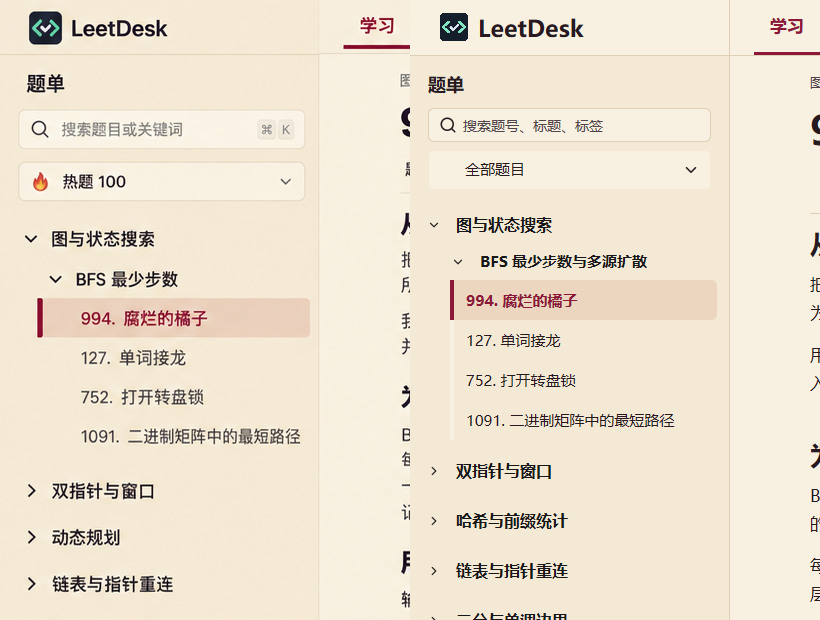
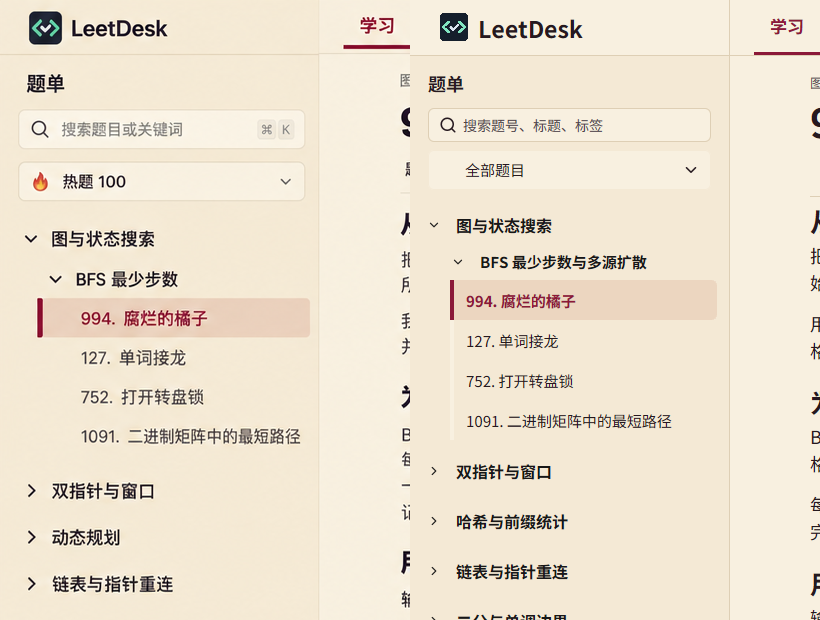
add the ux/ui revise

diff --git a/src/desktop.rs b/src/desktop.rs
@@ -2613,9 +2613,15 @@ impl Workspace {
             let (_, state, origin) = self.document_view.as_ref().unwrap();
             let origin = origin.clone();
             let image_origin = origin.clone();
-            content = content.pt_3().child(
+            content = content.child(
                 TextView::new(state)
                     .scrollable(true)
+                    .font_family(gpui_kit::component::Theme::global(cx).font_family.clone())
+                    .line_height(px(if self.workspace_mode == WorkspaceMode::Study {
+                        27.
+                    } else {
+                        23.
+                    }))
                     .code_block_actions(|block, _, cx| {
                         let code = block.code();
                         Button::new("copy-lesson-code")
@@ -2649,7 +2655,7 @@ impl Workspace {
                     .style(document_style(cx))
                     .size_full()
                     .text_size(px(if self.workspace_mode == WorkspaceMode::Study {
-                        17.
+                        18.
                     } else {
                         15.
                     })),
@@ -3687,7 +3693,7 @@ fn launch_options(store: Store, smoke: bool, capture: Option<(PathBuf, f32, f32)
                     cx.background_executor()
                         .timer(Duration::from_millis(300))
                         .await;
-                    let _ = cx.update(|cx| {
+                    cx.update(|cx| {
                         if let Some(handle) = handle {
                             let _ = handle.update(cx, |_, window, cx| {
                                 let _ = window.draw(cx);
@@ -3707,7 +3713,7 @@ fn launch_options(store: Store, smoke: bool, capture: Option<(PathBuf, f32, f32)
                         eprintln!("CAPTURE failed: {error:#}");
                         smoke_ok.store(false, Ordering::Relaxed);
                     }
-                    let _ = cx.update(|cx| cx.quit());
+                    cx.update(|cx| cx.quit());
                 })
                 .detach();
             } else if smoke {
@@ -3786,6 +3792,16 @@ pub fn apply_theme(cx: &mut App) {
 
 pub fn apply_appearance(appearance: Appearance, cx: &mut App) {
     let editor_theme = theme::editor_theme(cx);
+    let interface_family = if cx
+        .text_system()
+        .all_font_names()
+        .iter()
+        .any(|name| name == "Noto Sans SC")
+    {
+        "Noto Sans SC"
+    } else {
+        UI_FONT
+    };
     theme::select(appearance, cx);
     let color = |value| rgb(appearance.color(value));
     gpui_kit::component::Theme::change(
@@ -3798,7 +3814,7 @@ pub fn apply_appearance(appearance: Appearance, cx: &mut App) {
         cx,
     );
     gpui_kit::component::Theme::update(cx, |theme| {
-        theme.font_family = UI_FONT.into();
+        theme.font_family = interface_family.into();
         theme.mono_font_family = CODE_FONT.into();
         theme.shadow = false;
         theme.colors.background = color(BG).into();
@@ -3868,17 +3884,27 @@ pub fn apply_appearance(appearance: Appearance, cx: &mut App) {
 }
 
 fn document_style(cx: &App) -> TextViewStyle {
+    let interface_family = gpui_kit::component::Theme::global(cx).font_family.clone();
     let mut code_block = gpui_kit::StyleRefinement::default();
     code_block.text.color = Some(theme::color(INK, cx).into());
+    code_block.text.font_family = Some(CODE_FONT.into());
     let mut table = gpui_kit::StyleRefinement::default()
         .rounded_md()
         .bg(theme::color(0x101715, cx));
+    if theme::current(cx) != Appearance::Dark {
+        table = table.bg(theme::color(BG, cx));
+    }
     table.overflow.x = Some(gpui_kit::Overflow::Scroll);
     let table_head = gpui_kit::StyleRefinement::default()
         .bg(theme::color(0x203c34, cx))
         .text_color(theme::color(INK, cx))
         .font_weight(FontWeight::SEMIBOLD);
-    let table_cell = gpui_kit::StyleRefinement::default().px_4().py(px(3.));
+    let table_cell = gpui_kit::StyleRefinement::default()
+        .px_4()
+        .py(px(3.))
+        .font_family(interface_family.clone())
+        .text_size(px(14.))
+        .line_height(px(20.));
     TextViewStyle::default()
         .with_dark(theme::current(cx) == leetdesk::appearance::Appearance::Dark)
         .with_foreground(theme::color(INK, cx).into())
@@ -3889,6 +3915,9 @@ fn document_style(cx: &App) -> TextViewStyle {
             move |level| {
                 let mut style = gpui_kit::StyleRefinement::default()
                     .text_color(foreground)
+                    .font_family(interface_family.clone())
+                    .pt(px(6.))
+                    .pb(px(4.))
                     .font_weight(FontWeight::BOLD);
                 if level == 2 {
                     style.text.font_size = Some(px(26.).into());

diff --git a/src/reading.rs b/src/reading.rs
@@ -404,6 +404,7 @@ impl Workspace {
                                 .small()
                                 .ghost()
                                 .accessibility_label(chapter.title.get(ui::language(cx)).to_owned())
+                                .tooltip(chapter.overview.get(ui::language(cx)).to_owned())
                                 .on_click(cx.listener(
                                     move |this, _, _, cx| {
                                         if !this.expanded_chapters.remove(&chapter.id) {
@@ -423,6 +424,7 @@ impl Workspace {
                                     div()
                                         .w_full()
                                         .text_size(px(16.))
+                                        .truncate()
                                         .child(chapter.title.get(ui::language(cx)).to_owned()),
                                 )
                                 .ghost()
@@ -599,6 +601,8 @@ impl Workspace {
             .map(|m| m.frontend_id.clone())
             .unwrap_or_else(|| problem.id.to_string());
         let active = index == self.current && !self.learning_overview;
+        let title = format!("{number}. {}", problem.title);
+        let tooltip = title.clone();
         div()
             .id(gpui_kit::SharedString::from(id))
             .test_support()
@@ -608,23 +612,21 @@ impl Workspace {
             .items_center()
             .border_l_4()
             .border_color(theme::color(if active { ACCENT } else { BG }, cx))
-            .px_3()
+            .pl(px(if pattern.is_some() { 36. } else { 12. }))
+            .pr_3()
             .rounded_r_md()
             .cursor_pointer()
-            .text_size(px(15.))
+            .text_size(px(16.))
+            .tooltip(move |window, cx| {
+                gpui_kit::component::tooltip::Tooltip::new(tooltip.clone()).build(window, cx)
+            })
             .when(active, |el| {
                 el.bg(theme::color(0x322630, cx))
                     .font_weight(FontWeight::SEMIBOLD)
                     .text_color(theme::color(ACCENT, cx))
             })
             .hover(|el| el.bg(theme::color(0x222027, cx)))
-            .child(
-                div()
-                    .flex_1()
-                    .min_w_0()
-                    .truncate()
-                    .child(format!("{number}. {}", problem.title)),
-            )
+            .child(div().flex_1().min_w_0().truncate().child(title))
             .on_click(cx.listener(move |this, _, window, cx| {
                 if let Some(pattern) = &pattern {
                     this.filter = format!("@pattern:{pattern}");
@@ -889,6 +891,7 @@ impl Workspace {
                             .flex_1()
                             .min_w_0()
                             .text_size(px(if self.reader_wide { 40. } else { 32. }))
+                            .line_height(px(if self.reader_wide { 48. } else { 42. }))
                             .font_weight(FontWeight::BOLD)
                             .child(title),
                     )
@@ -989,13 +992,13 @@ impl Workspace {
     }
 
     pub(super) fn reveal_section(&mut self, cx: &mut Context<Self>) {
-        if let (Some(heading), Some((_, state, _))) = (&self.pending_section, &self.document_view) {
-            if let Some(start) = state.read(cx).rendered_text().as_str().find(heading) {
-                state.update(cx, |state, cx| {
-                    let _ = state.reveal_range(start..start, cx);
-                });
-                self.pending_section = None;
-            }
+        if let (Some(heading), Some((_, state, _))) = (&self.pending_section, &self.document_view)
+            && let Some(start) = state.read(cx).rendered_text().as_str().find(heading)
+        {
+            state.update(cx, |state, cx| {
+                let _ = state.reveal_range(start..start, cx);
+            });
+            self.pending_section = None;
         }
     }
 
@@ -1099,7 +1102,7 @@ impl Workspace {
             .flex_col()
             .bg(theme::color(BG, cx))
             .text_color(theme::color(INK, cx))
-            .font_family(UI_FONT)
+            .font_family(gpui_kit::component::Theme::global(cx).font_family.clone())
             .on_action(cx.listener(Self::save_action))
             .on_action(cx.listener(Self::run_cases))
             .on_action(cx.listener(Self::submit))

diff --git a/scripts/design_fixture.py b/scripts/design_fixture.py
@@ -4,6 +4,8 @@ from pathlib import Path
 import sys
 
 root = Path(sys.argv[1]).resolve()
+english = '--english' in sys.argv[2:]
+site = 'global' if english else 'china'
 root.mkdir(parents=True, exist_ok=True)
 base = Path(__file__).resolve().parents[1]
 details = json.loads((base / 'assets/lesson-details.json').read_text(encoding='utf-8'))
@@ -14,18 +16,20 @@ for number, slug, title in [
     (752, 'open-the-lock', '打开转盘锁'),
     (1091, 'shortest-path-in-binary-matrix', '二进制矩阵中的最短路径'),
 ]:
+    if english:
+        title = {994:'Rotting Oranges',127:'Word Ladder',752:'Open the Lock',1091:'Shortest Path in Binary Matrix'}[number]
     problems.append(dict(
         id=number, slug=slug, title=title, difficulty='Medium', tags=['广度优先搜索'],
         description='<p>网格中的 0 表示空格，1 表示新鲜橘子，2 表示腐烂的橘子。每分钟，腐烂橘子会感染上下左右相邻的新鲜橘子。返回所有橘子腐烂所需的最少分钟数；无法全部感染时返回 -1。</p><pre>grid = [[2,1,1],[1,1,0],[0,1,1]]\n输出：4</pre>',
         starter='package solution\n\n' + details[slug]['go'], function='orangesRotting',
         parameters=[], returns='int', cases=[], explanation='',
-        online=dict(site='china', frontend_id=str(number), question_id=str(number),
+        online=dict(site=site, frontend_id=str(number), question_id=str(number),
                     status=None, paid_only=False, loaded=True, go_supported=True,
                     java_supported=False, sample_input='[[2,1,1],[1,1,0],[0,1,1]]'),
     ))
-cache=root/'leetcode/cn'
+cache=root/('leetcode/global' if english else 'leetcode/cn')
 cache.mkdir(parents=True,exist_ok=True)
-(cache/'index.json').write_text(json.dumps(dict(site='china',username='design-fixture',problems=problems,synced_at=1),ensure_ascii=False),encoding='utf-8')
-for name,value in [('appearance','beige'),('site','china'),('workspace-layout','study'),('session',994)]:
+(cache/'index.json').write_text(json.dumps(dict(site=site,username='design-fixture',problems=problems,synced_at=1),ensure_ascii=False),encoding='utf-8')
+for name,value in [('appearance','beige'),('site',site),('workspace-layout','study'),('session',994)]:
     (root/f'{name}.json').write_text(json.dumps(value),encoding='utf-8')
 print(root)

diff --git a/scripts/compare_design.py b/scripts/compare_design.py
@@ -1,0 +1,15 @@
+from PIL import Image, ImageOps, ImageDraw
+from pathlib import Path
+import sys
+root=Path('design')
+reference=Image.open(root/'reading-first-reference.png').convert('RGB')
+actual=Image.open(root/sys.argv[1]).convert('RGB')
+assert reference.size==actual.size, (reference.size,actual.size)
+canvas=Image.new('RGB',(reference.width*2,reference.height+32),'white')
+canvas.paste(reference,(0,32));canvas.paste(actual,(reference.width,32))
+draw=ImageDraw.Draw(canvas)
+draw.text((12,10),'SELECTED REFERENCE',fill='black');draw.text((reference.width+12,10),'NATIVE IMPLEMENTATION',fill='black')
+canvas.save(root/'comparison-full.png')
+for name,box in [('navigation',(0,0,410,620)),('article',(390,185,1235,810)),('toolbar',(310,0,1488,200))]:
+    a=reference.crop(box); b=actual.crop(box)
+    out=Image.new('RGB',(a.width*2,a.height),'white');out.paste(a,(0,0));out.paste(b,(a.width,0));out.save(root/f'comparison-{name}.png')
